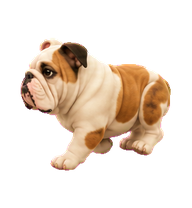
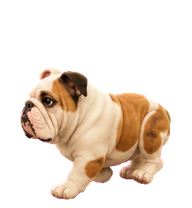
Mejora la continuidad de las animaciones

diff --git a/src/main.cpp b/src/main.cpp
@@ -16,6 +16,7 @@
 #include <QPixmap>
 #include <QRandomGenerator>
 #include <QScreen>
+#include <QSet>
 #include <QSettings>
 #include <QStandardPaths>
 #include <QTimer>
@@ -312,6 +313,9 @@ private:
                     sequence.name, sequence.crossFadeMilliseconds);
             }
         }
+
+        pingPongSequences_.insert(QStringLiteral("look-a"));
+        pingPongSequences_.insert(QStringLiteral("look-b"));
     }
 
     void setSequence(const QString &name, int durationMs) {
@@ -322,6 +326,7 @@ private:
         currentSequence_.name = name;
         currentSequence_.frameIntervalMs = frameIntervals_.value(name, 180);
         frameIndex_ = 0;
+        frameDirection_ = 1;
         previousFrameIndex_ = -1;
         activeCrossFadeMilliseconds_ = 0;
         fadeTimer_.stop();
@@ -341,9 +346,20 @@ private:
             return;
         }
 
-        const int lastFrame = sequenceIt->size() - 1;
+        const int frameCount = sequenceIt->size();
+        const int lastFrame = frameCount - 1;
         int nextFrame = frameIndex_;
-        if (frameIndex_ < lastFrame) {
+        if (pingPongSequences_.contains(currentSequence_.name)
+            && frameCount > 1) {
+            nextFrame = frameIndex_ + frameDirection_;
+            if (nextFrame >= frameCount) {
+                frameDirection_ = -1;
+                nextFrame = lastFrame - 1;
+            } else if (nextFrame < 0) {
+                frameDirection_ = 1;
+                nextFrame = 1;
+            }
+        } else if (frameIndex_ < lastFrame) {
             nextFrame = frameIndex_ + 1;
         } else if (sequenceLoops_.value(currentSequence_.name, true)) {
             nextFrame = 0;
@@ -614,6 +630,7 @@ private:
     QHash<QString, int> frameIntervals_;
     QHash<QString, bool> sequenceLoops_;
     QHash<QString, int> crossFadeDurations_;
+    QSet<QString> pingPongSequences_;
     Sequence currentSequence_{QStringLiteral("idle"), 260};
     QTimer frameTimer_;
     QTimer fadeTimer_;
@@ -621,6 +638,7 @@ private:
     QElapsedTimer fadeClock_;
     QSettings settings_;
     int frameIndex_ = 0;
+    int frameDirection_ = 1;
     int previousFrameIndex_ = -1;
     int activeCrossFadeMilliseconds_ = 0;
     int groundBottom_ = 0;

diff --git a/README.md b/README.md
@@ -105,9 +105,9 @@ permite reproducir manualmente cualquiera de sus comportamientos especiales.
 | --- | ---: | --- |
 | `idle` | 6 | Reposo automático |
 | `running-left` | 8 | Caminar hacia la izquierda |
-| `running-right` | 8 | Caminar hacia la derecha |
-| `look-a` | 8 | Mirar alrededor |
-| `look-b` | 8 | Mirar y bajar la cabeza |
+| `running-right` | 8 | Caminar hacia la derecha, como espejo exacto |
+| `look-a` | 8 | Mirar alrededor en ida y vuelta |
+| `look-b` | 8 | Mirar y bajar la cabeza en ida y vuelta |
 | `waiting` | 6 | Esperar |
 | `review` | 6 | Observar o revisar |
 | `thinking-work` | 6 | Pensar, investigar y trabajar |
@@ -119,6 +119,10 @@ permite reproducir manualmente cualquiera de sus comportamientos especiales.
 `thinking-work` cambia de escena cada 1.8 segundos y utiliza un fundido de
 350 milisegundos. Sus poses —laptop, escritura, pensamiento, investigación,
 revisión y tableta— son escenas conceptuales, no cuadros de movimiento continuo.
+
+Los ciclos laterales comparten exactamente las mismas poses reflejadas y
+mantienen las patas alineadas con el borde inferior. Las dos secuencias de mirada
+regresan por sus propios cuadros para evitar un salto brusco al comenzar de nuevo.
 
 `failed` conserva su nombre de archivo por compatibilidad con el paquete
 gráfico, pero dentro de la mascota representa un descanso: Planck se tumba, se

diff --git a/CHANGELOG.md b/CHANGELOG.md
@@ -23,6 +23,10 @@ y el proyecto utiliza [versionado semántico](https://semver.org/lang/es/).
 - El parpadeo durante el reposo es menos frecuente y mantiene el ojo cerrado
   durante menos tiempo.
 - El saludo aparece con mayor frecuencia en la rutina espontánea.
+- Los ciclos de caminata mantienen una altura uniforme y el sentido derecho es
+  el reflejo exacto del izquierdo.
+- `look-a` y `look-b` se reproducen en ida y vuelta para evitar saltos al
+  reiniciar la secuencia.
 
 ## [0.1.0] - 2026-07-24
 
